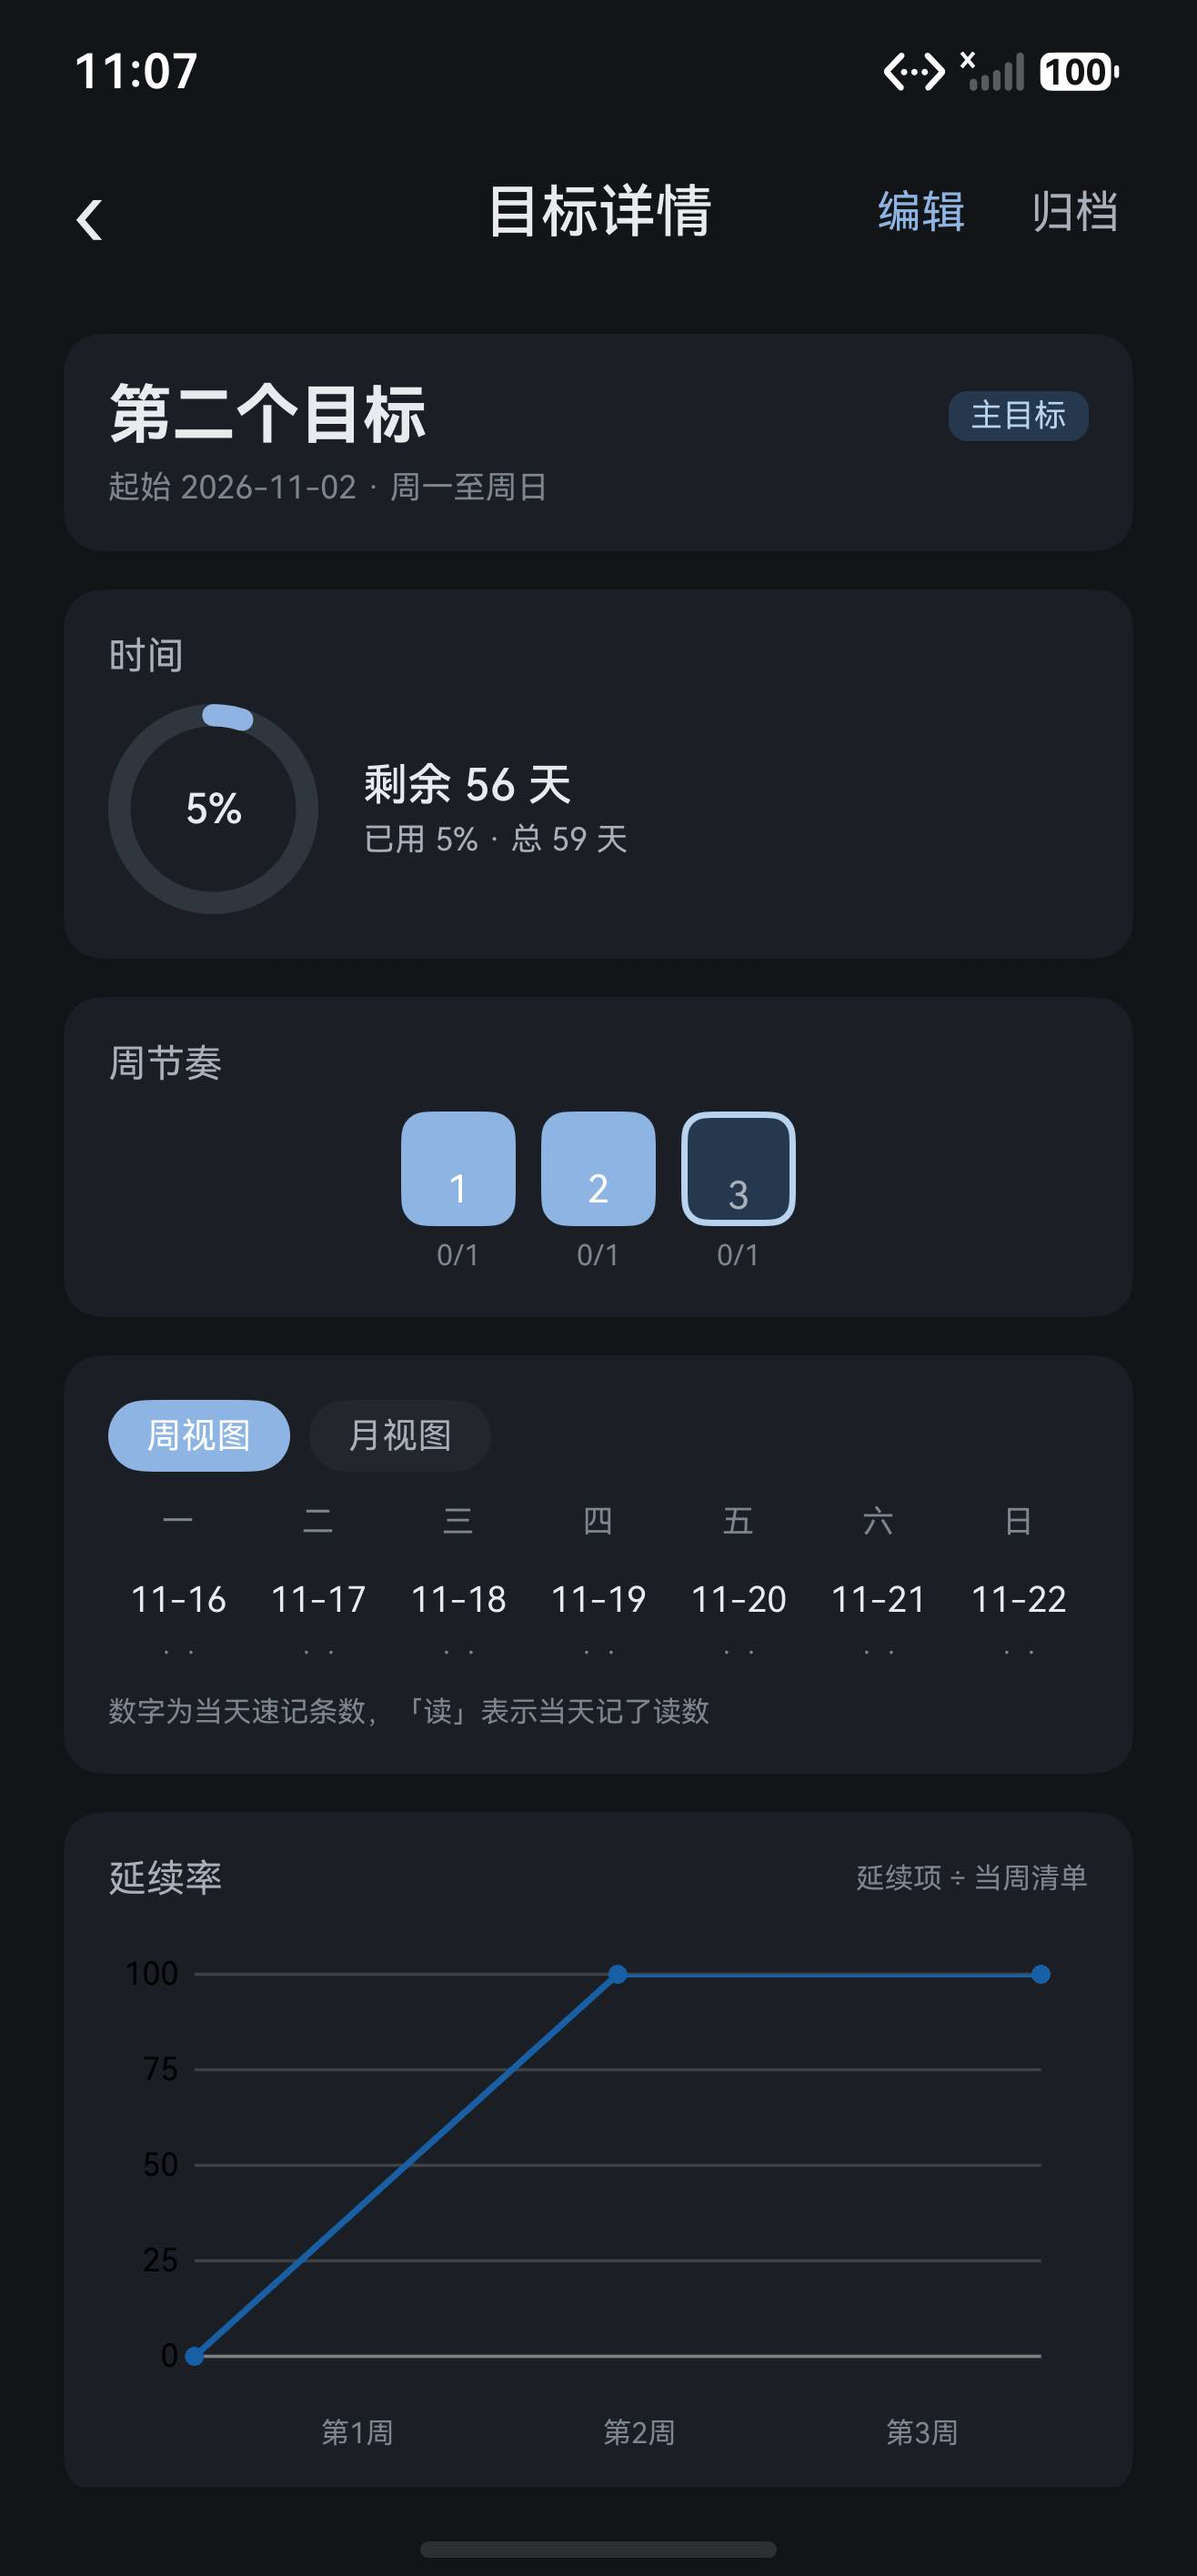
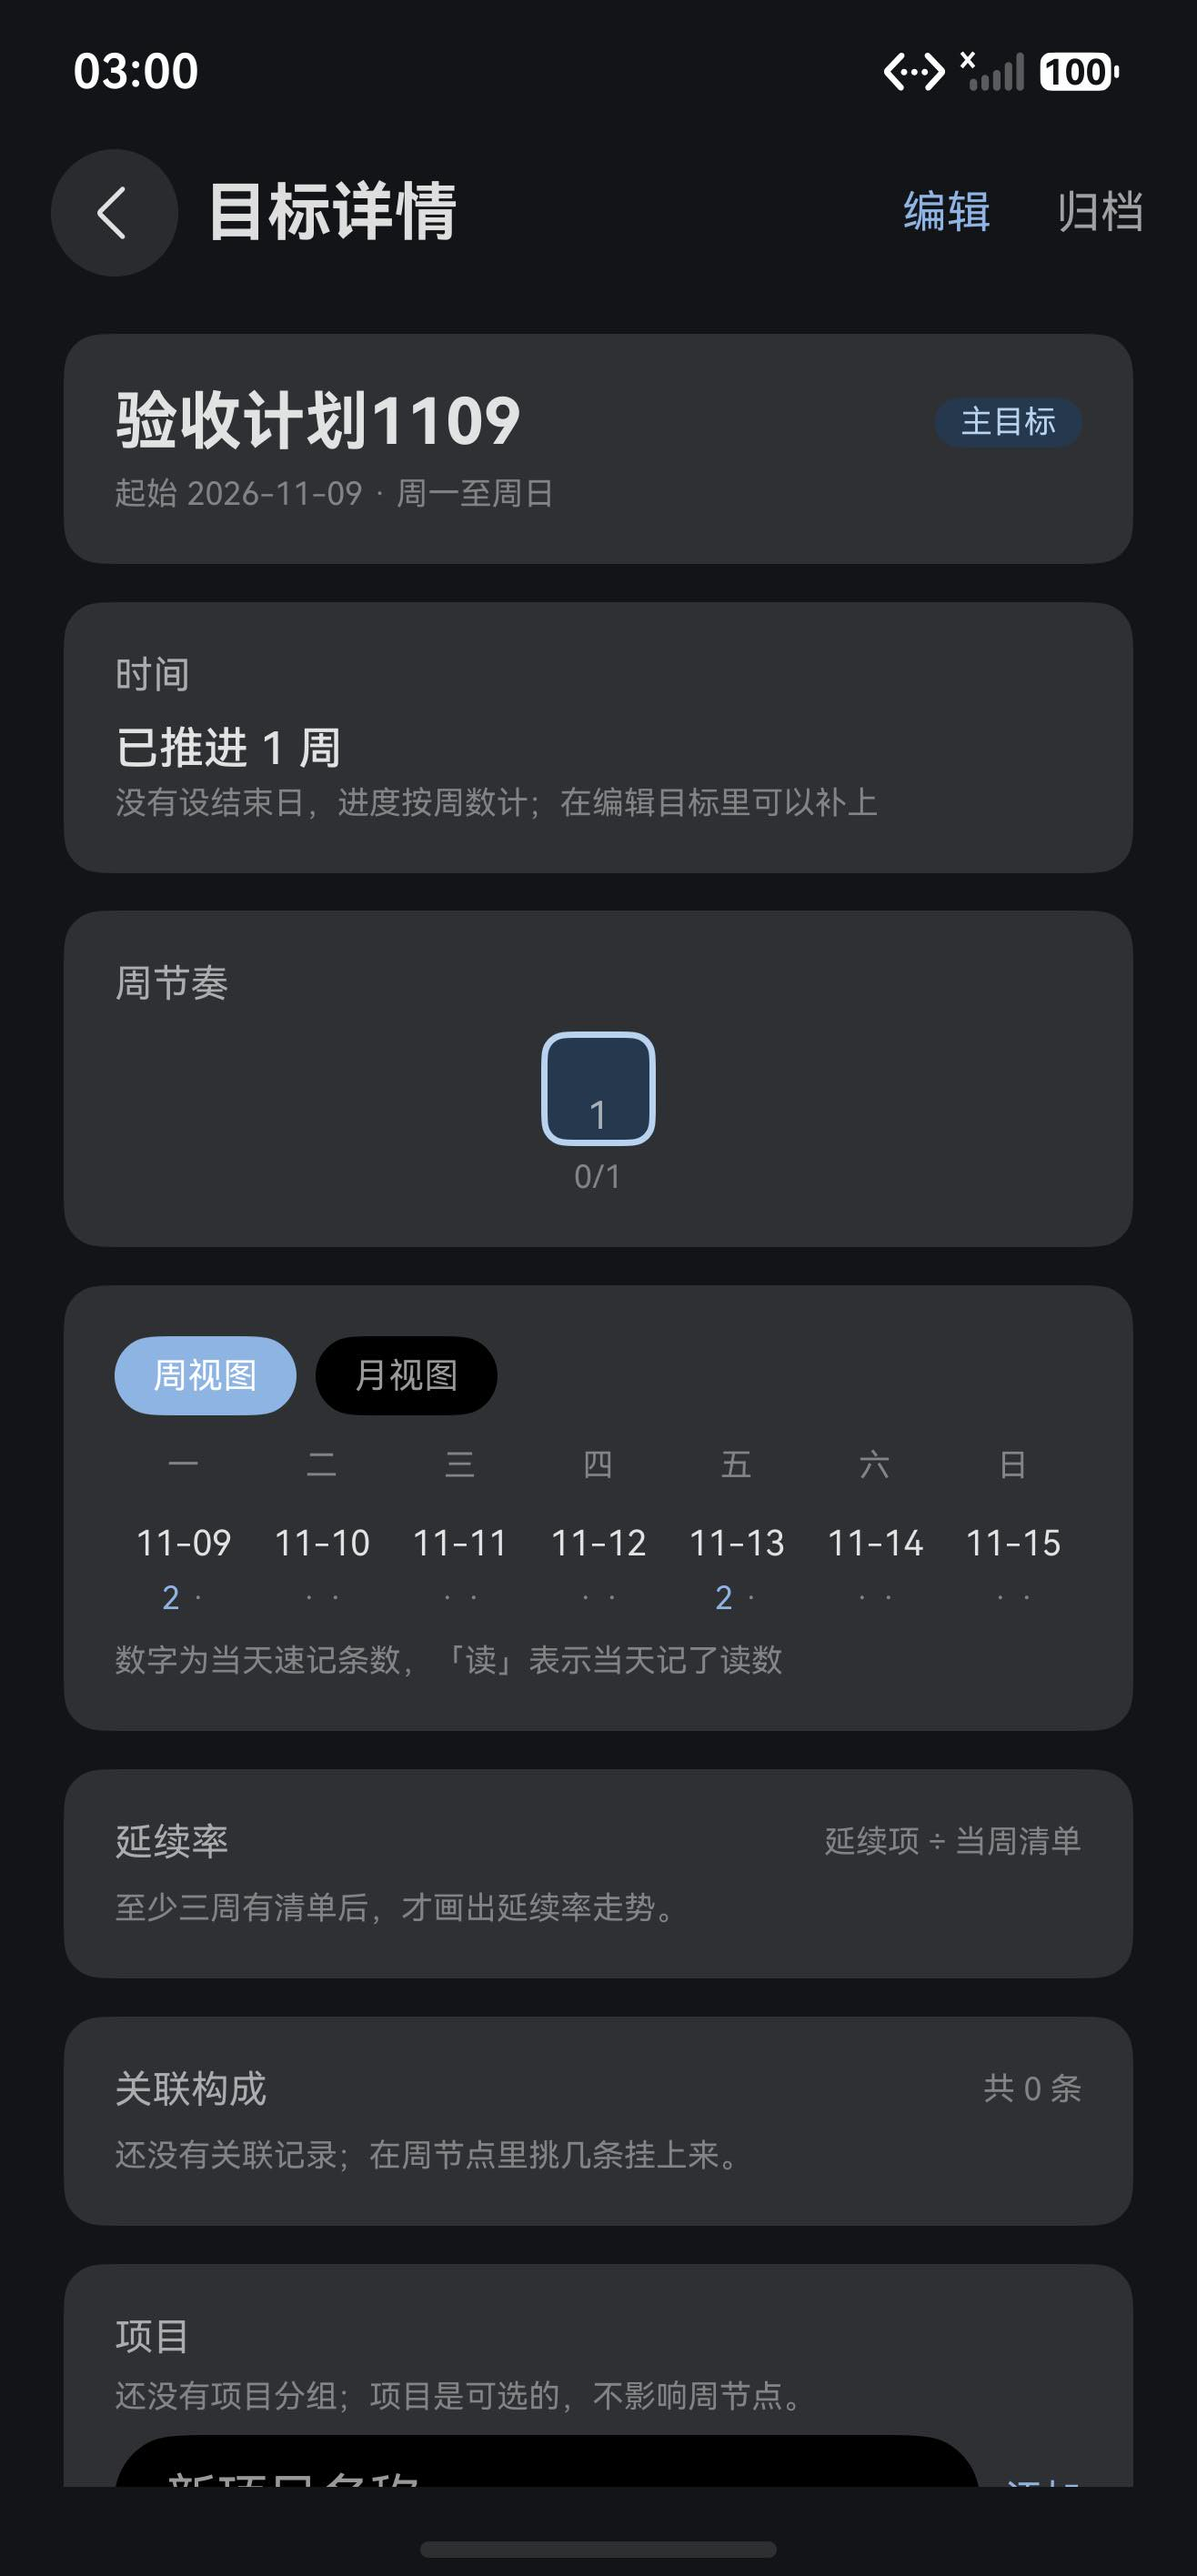
docs: refresh the README screenshots from the current build
十张图摄于 11-05，早于字号、圆角、间距与导航改造：标题栏还是自绘的，字号与内距也是旧值。
这次在同一台模拟器上用当前构建重拍，记录是走查时造的示例数据。

alt 一并按新图改写：首页的计数与读数、计划详情的周节奏与周视图、复盘详情的锚点对照为空、
导出结果的 1992 字符与 21 条记录。说明里那句「早于导航重构」随之删掉。

diff --git a/README.md b/README.md
@@ -97,7 +97,7 @@ flowchart TB
 
 The home page opens with the identity band and four counters; today's readings, a weekly settlement or onboarding card, the plan card, and the grid of six modules follow below. `编辑` and `设置` sit on the right of the identity band.
 
-<img src="./docs/images/debug/home.jpeg" width="300" alt="Upper half of the home page: the identity band, four counters, the dashboard button, today's readings, the weekly settlement card and the plan card">
+<img src="./docs/images/debug/home.jpeg" width="300" alt="Upper half of the home page: the identity band, four counters, the dashboard button, the readings card, the weekly settlement card marked reviewed and the plan card">
 
 ### Set your identity
 
@@ -161,19 +161,19 @@ Settings (`设置`) writes the whole record set to `cogit-export-YYYYMMDD-HHMM.m
 
 ## Screens
 
-Captured on a Mate 70 Pro emulator in dark mode. They predate the navigation refresh, so the title bar in them is still the app's own rather than the system one; a re-capture is pending. Every record in them is synthetic.
+Captured on a Mate 70 Pro emulator from the current build, in dark mode. Every record in them is synthetic.
 
 | Home | Analytics, current month |
 |---|---|
-| <img src="./docs/images/debug/home.jpeg" width="300" alt="Home page with the identity band, four counters, today's readings (7.55 hours of sleep, one workout, zero notes), the weekly settlement card marked reviewed, the current plan and this period's prompts"> | <img src="./docs/images/debug/analytics-month.jpeg" width="300" alt="Top of the analytics dashboard: remote payload timestamp, month chips with the current month highlighted, the monthly hit-rate line and the calibration curve"> |
+| <img src="./docs/images/debug/home.jpeg" width="300" alt="Home page with the identity band, four counters (two notes today, one pending prediction, a one-day streak, last review on 11-13), the readings card, the weekly settlement marked reviewed, the current goal 验收计划1109 at week 1, and this period's prompts"> | <img src="./docs/images/debug/analytics-month.jpeg" width="300" alt="Top of the analytics dashboard: remote payload timestamp, month chips with the current month highlighted, the monthly hit-rate line and the calibration curve"> |
 | **Analytics, mid-page** | **Analytics, lower section** |
-| <img src="./docs/images/debug/analytics-mid.jpeg" width="300" alt="Middle of the analytics dashboard: outcome donut at 38 percent, confidence bars and hit rate by horizon bucket"> | <img src="./docs/images/debug/analytics-bottom.jpeg" width="300" alt="Lower part of the dashboard: interaction bars and the reading coverage heatmap with weekday labels and a light-to-dark legend"> |
+| <img src="./docs/images/debug/analytics-mid.jpeg" width="300" alt="Middle of the analytics dashboard: the outcome donut at 38 percent and the confidence distribution bars"> | <img src="./docs/images/debug/analytics-bottom.jpeg" width="300" alt="Lower part of the dashboard: interaction bars and the reading coverage heatmap with weekday labels and a light-to-dark legend"> |
 | **Goal detail** | **Review detail** |
-| <img src="./docs/images/debug/plan-detail.jpeg" width="300" alt="Goal detail with 56 days left on a 5 percent ring, a three-week rhythm strip, the week view and the carry-rate line"> | <img src="./docs/images/debug/review-saved.jpeg" width="300" alt="Review detail marked as finished and read-only, showing the four steps and the comparison against two anchors"> |
+| <img src="./docs/images/debug/plan-detail.jpeg" width="300" alt="Goal detail reporting one week advanced, a single week node at 0 of 1, the week strip for 11-09 to 11-15 and the carry-rate card waiting for three weeks of data"> | <img src="./docs/images/debug/review-saved.jpeg" width="300" alt="Review detail marked finished and read-only, showing the four steps and the anchor comparison, which was left empty"> |
 | **Anchors** | **Relation graph** |
 | <img src="./docs/images/debug/anchor.jpeg" width="300" alt="Value anchors page holding two sample sentences in the north-star bank, an input to add one, and a button to run a review against them"> | <img src="./docs/images/debug/relation-graph.jpeg" width="300" alt="Relation graph centred on me, with three contacts coloured by trust tier and a note explaining the edges"> |
 | **Settings, model mode** | **Markdown export** |
-| <img src="./docs/images/debug/settings-model.jpeg" width="300" alt="Settings in model mode: a choice between GLM-4.7-Flash and DeepSeek V4-Flash, a 30 yuan monthly budget, the endpoint field and the API key field"> | <img src="./docs/images/debug/export-result.jpeg" width="300" alt="Settings after an export, reporting the file name cogit-export-20261105-2303.md, 1703 characters across 13 records, plus a share action"> |
+| <img src="./docs/images/debug/settings-model.jpeg" width="300" alt="Settings in model mode: a choice between GLM-4.7-Flash and DeepSeek V4-Flash, a 30 yuan monthly budget, the endpoint field and the API key field"> | <img src="./docs/images/debug/export-result.jpeg" width="300" alt="Settings after an export, reporting the file name cogit-export-20261113-0306.md, 1992 characters across 21 records, plus a share action"> |
 
 ## Quick Install
 
